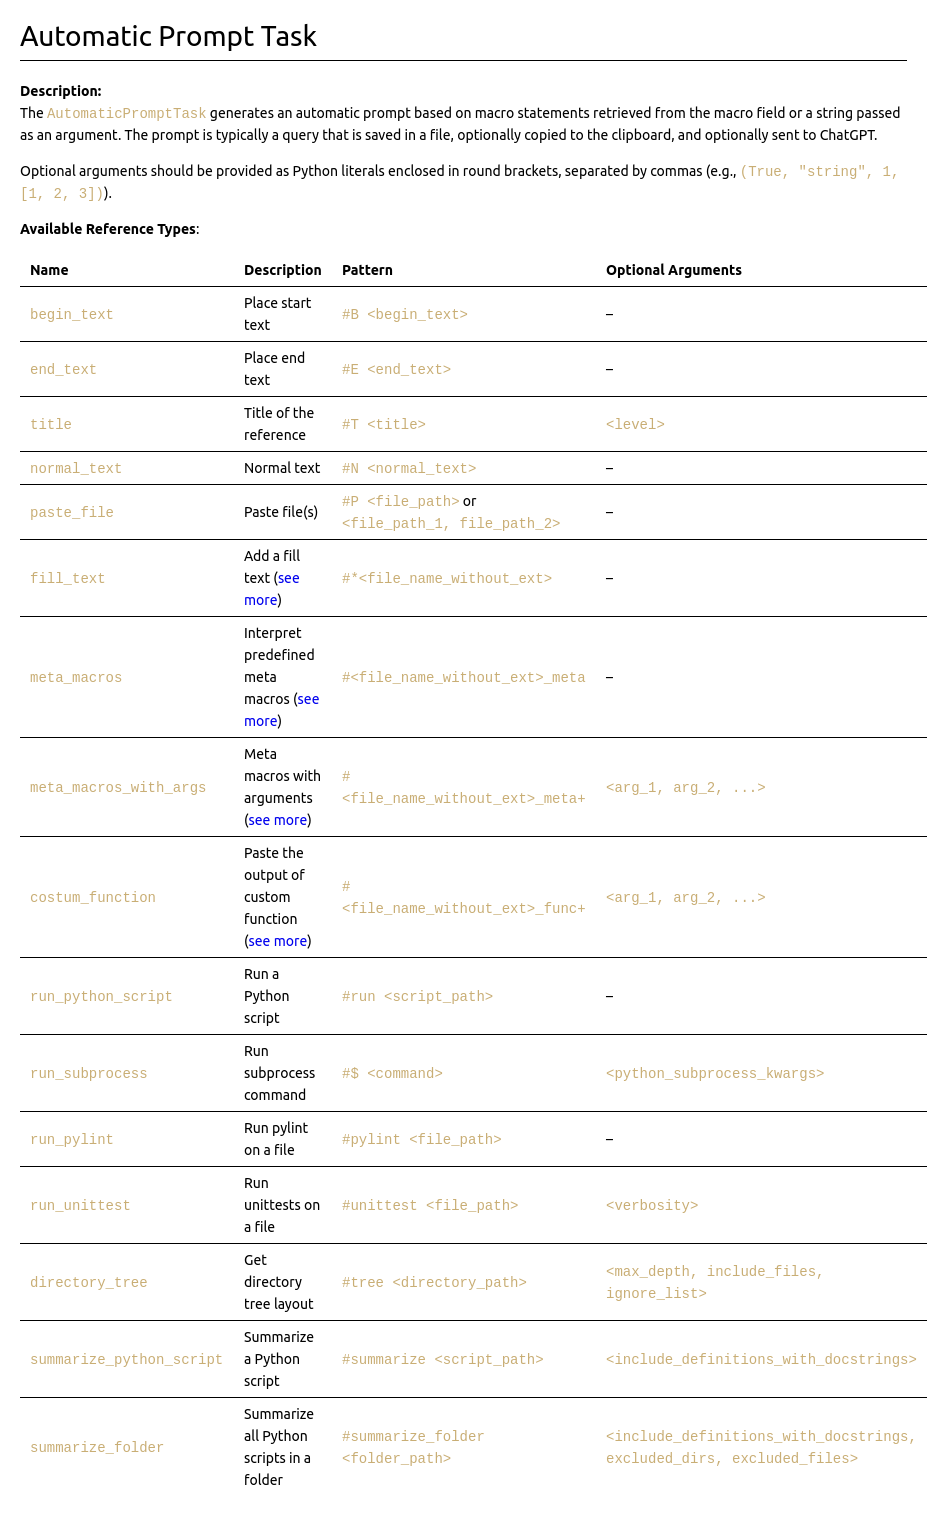
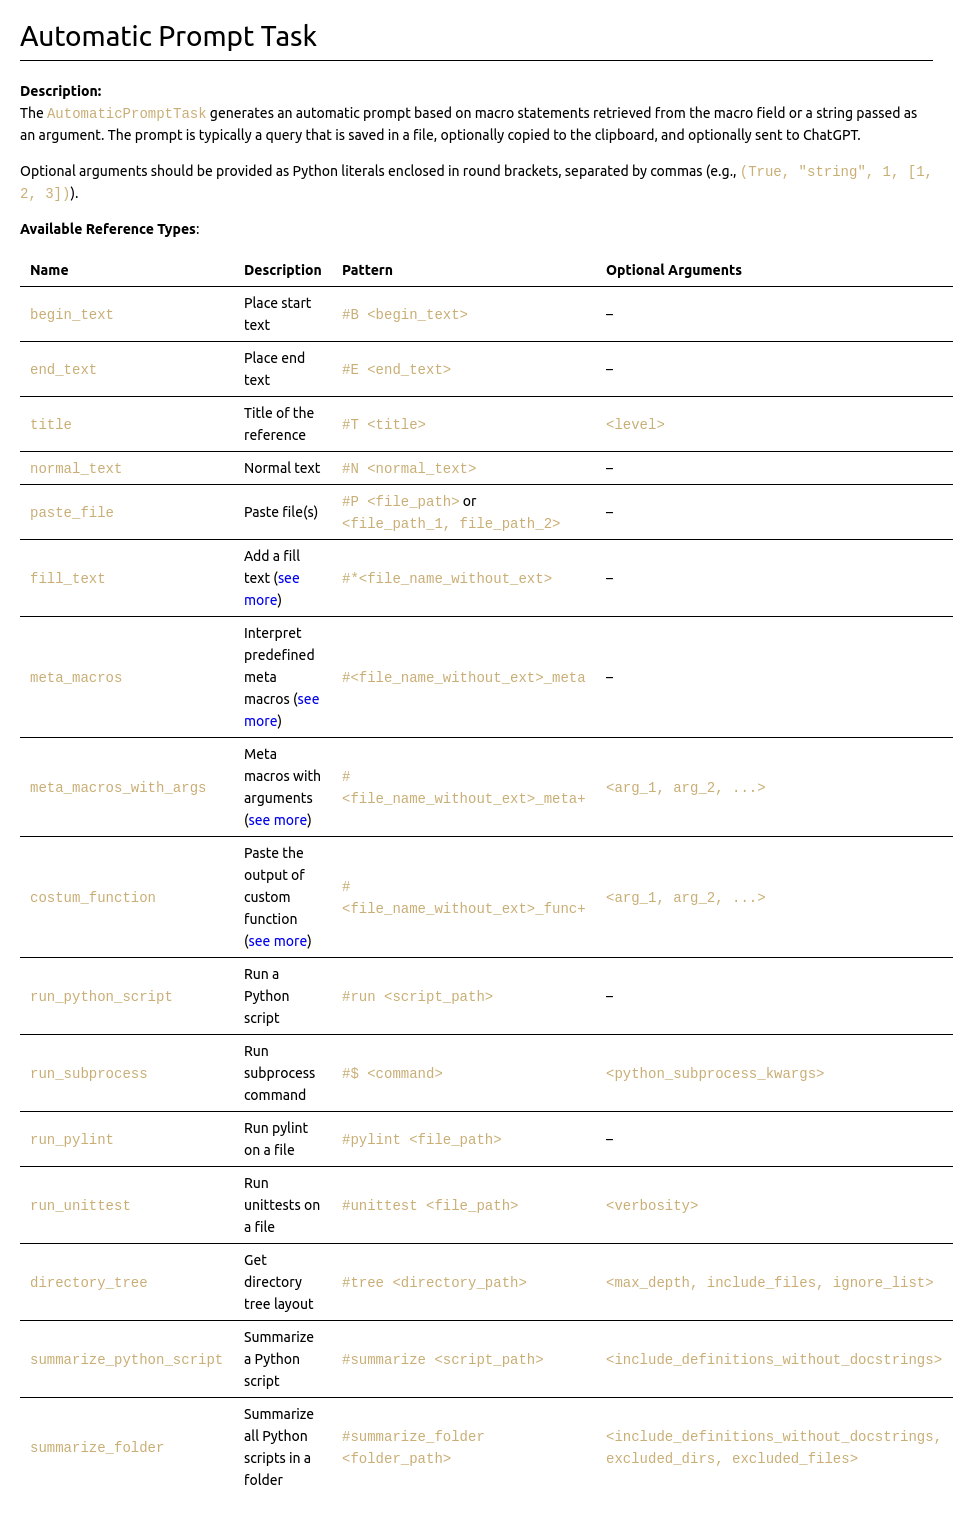
Fixed typo in description

diff --git a/README.md b/README.md
@@ -132,8 +132,8 @@ Optional arguments should be provided as Python literals enclosed in round brack
 | `run_pylint`            | Run pylint on a file                                                                         | `#pylint <file_path>`                                     | –                                                              |
 | `run_unittest`          | Run unittests on a file                                                                      | `#unittest <file_path>`                                   | `<verbosity>`                                                  |
 | `directory_tree`        | Get directory tree layout                                                                    | `#tree <directory_path>`                                  | `<max_depth, include_files, ignore_list>`                      |
-| `summarize_python_script` | Summarize a Python script                                                                  | `#summarize <script_path>`                                | `<include_definitions_with_docstrings>`                        |
-| `summarize_folder`      | Summarize all Python scripts in a folder                                                     | `#summarize_folder <folder_path>`                         | `<include_definitions_with_docstrings, excluded_dirs, excluded_files>` |
+| `summarize_python_script` | Summarize a Python script                                                                  | `#summarize <script_path>`                                | `<include_definitions_without_docstrings>`                        |
+| `summarize_folder`      | Summarize all Python scripts in a folder                                                     | `#summarize_folder <folder_path>`                         | `<include_definitions_without_docstrings, excluded_dirs, excluded_files>` |
 
 
 **Usage from command line**:  

diff --git a/tasks/management/support_files/CHEATSHEET.md b/tasks/management/support_files/CHEATSHEET.md
@@ -72,8 +72,8 @@ Optional arguments should be provided as Python literals enclosed in round brack
 | `run_pylint`            | Run pylint on a file                                                                         | `#pylint <file_path>`                                     | –                                                              |
 | `run_unittest`          | Run unittests on a file                                                                      | `#unittest <file_path>`                                   | `<verbosity>`                                                  |
 | `directory_tree`        | Get directory tree layout                                                                    | `#tree <directory_path>`                                  | `<max_depth, include_files, ignore_list>`                      |
-| `summarize_python_script` | Summarize a Python script                                                                  | `#summarize <script_path>`                                | `<include_definitions_with_docstrings>`                        |
-| `summarize_folder`      | Summarize all Python scripts in a folder                                                     | `#summarize_folder <folder_path>`                         | `<include_definitions_with_docstrings, excluded_dirs, excluded_files>` |
+| `summarize_python_script` | Summarize a Python script                                                                  | `#summarize <script_path>`                                | `<include_definitions_without_docstrings>`                        |
+| `summarize_folder`      | Summarize all Python scripts in a folder                                                     | `#summarize_folder <folder_path>`                         | `<include_definitions_without_docstrings, excluded_dirs, excluded_files>` |
 
 
 **Usage from command line**:  

diff --git a/tasks/tasks/automatic_prompt/description.md b/tasks/tasks/automatic_prompt/description.md
@@ -22,5 +22,5 @@ Optional arguments should be provided as Python literals enclosed in round brack
 | `run_pylint`            | Run pylint on a file                                                                         | `#pylint <file_path>`                                     | –                                                              |
 | `run_unittest`          | Run unittests on a file                                                                      | `#unittest <file_path>`                                   | `<verbosity>`                                                  |
 | `directory_tree`        | Get directory tree layout                                                                    | `#tree <directory_path>`                                  | `<max_depth, include_files, ignore_list>`                      |
-| `summarize_python_script` | Summarize a Python script                                                                  | `#summarize <script_path>`                                | `<include_definitions_with_docstrings>`                        |
-| `summarize_folder`      | Summarize all Python scripts in a folder                                                     | `#summarize_folder <folder_path>`                         | `<include_definitions_with_docstrings, excluded_dirs, excluded_files>` |
+| `summarize_python_script` | Summarize a Python script                                                                  | `#summarize <script_path>`                                | `<include_definitions_without_docstrings>`                        |
+| `summarize_folder`      | Summarize all Python scripts in a folder                                                     | `#summarize_folder <folder_path>`                         | `<include_definitions_without_docstrings, excluded_dirs, excluded_files>` |
